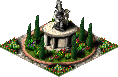
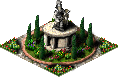
Horsie statue

Changed region(s): [[0.6356, 0.4156, 0.7373, 0.6494]]

diff --git a/src/window/building_info.c b/src/window/building_info.c
@@ -616,7 +616,13 @@ static void draw_background(void)
             window_building_draw_fountain(&context);
         } else if (btype == BUILDING_WELL) {
             window_building_draw_well(&context);
-        } else if (btype == BUILDING_SMALL_STATUE || btype == BUILDING_MEDIUM_STATUE || btype == BUILDING_LARGE_STATUE || btype == BUILDING_SMALL_STATUE_ALT || btype == BUILDING_SMALL_STATUE_ALT_B) {
+        } else if (btype == BUILDING_SMALL_STATUE || 
+            btype == BUILDING_MEDIUM_STATUE || 
+            btype == BUILDING_LARGE_STATUE || 
+            btype == BUILDING_SMALL_STATUE_ALT || 
+            btype == BUILDING_SMALL_STATUE_ALT_B || 
+            btype == BUILDING_LEGION_STATUE || 
+            btype == BUILDING_HORSE_STATUE) {
             window_building_draw_statue(&context);
         } else if (btype == BUILDING_SMALL_POND || btype == BUILDING_LARGE_POND) {
             window_building_draw_pond(&context);

diff --git a/src/building/properties.c b/src/building/properties.c
@@ -47,7 +47,7 @@ mod_building_properties_mapping mod_building_properties[MOD_BUILDINGS] = {
     {BUILDING_TAVERN, { 2, 0, 0, 0, 0 }, "Areldir", "Tavern", "Tavern OFF"},
     {BUILDING_GRAND_GARDEN, { 2, 1, 0, 0, 0 }, "Areldir", "Engineer", "Eng Guild OFF"},
     {BUILDING_ARENA, { 3, 0, 0, 0, 0 }, "Areldir", "Arena", "Arena OFF" },
-    {BUILDING_HORSE_STATUE, { 3, 1, 0, 0, 0 }, "Areldir", "Aesthetics", "Eng Guild OFF"},
+    {BUILDING_HORSE_STATUE, { 3, 1, 0, 0, 1 }, "Areldir", "Aesthetics", "Eque Statue"},
     {BUILDING_DOLPHIN_FOUNTAIN, { 2, 1, 0, 0, 0 }, "Areldir", "Aesthetics", "Eng Guild OFF"},
     {BUILDING_HEDGE_DARK, { 1, 1, 0, 0, 0 }, "Areldir", "Aesthetics", "Eng Guild OFF"},
     {BUILDING_HEDGE_LIGHT, { 1, 1, 0, 0, 0 }, "Areldir", "Aesthetics", "Eng Guild OFF"},

diff --git a/src/building/construction_building.c b/src/building/construction_building.c
@@ -657,7 +657,10 @@ static void add_to_map(int type, building *b, int size,
             add_building(b, mods_get_image_id(mods_get_group_id("Areldir", "Arena"), "Arena ON"));
             break;
         case BUILDING_HORSE_STATUE:
-            add_building(b, mods_get_image_id(mods_get_group_id("Areldir", "Engineer"), "Eng Guild ON"));
+            orientation = building_rotation_get_rotation();
+            b->subtype.orientation = orientation;
+            add_building(b, mods_get_image_id(mods_get_group_id("Areldir", "Aesthetics"), "Eque Statue") + orientation % 2);
+            break;
             break;
         case BUILDING_DOLPHIN_FOUNTAIN:
             add_building(b, mods_get_image_id(mods_get_group_id("Areldir", "Engineer"), "Eng Guild ON"));
